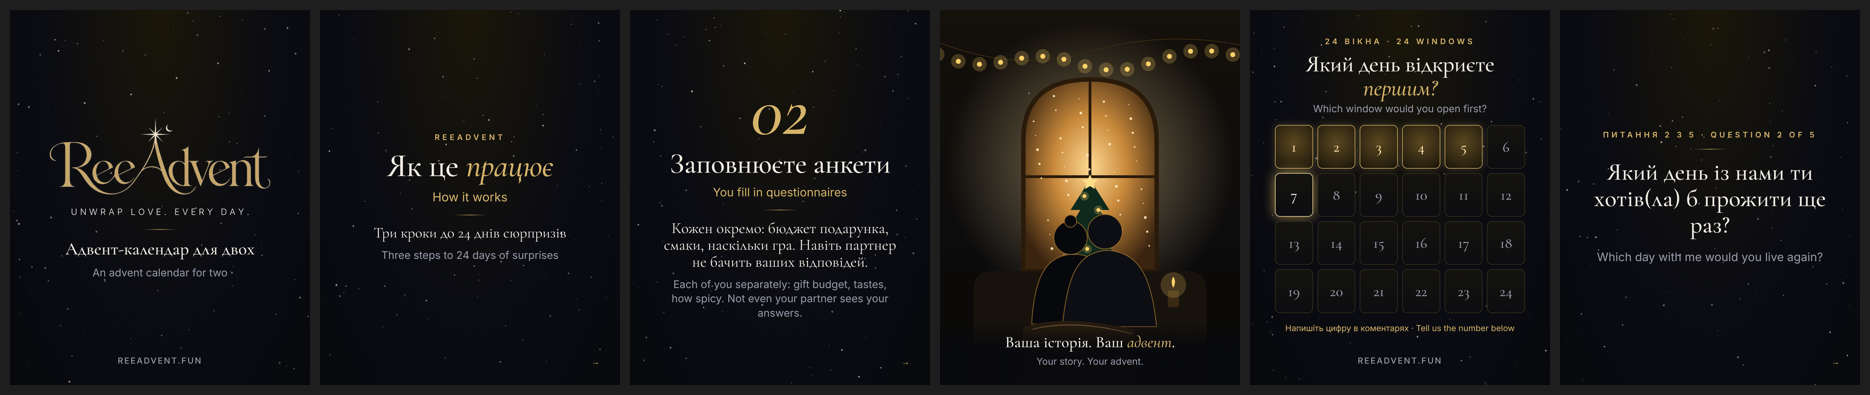
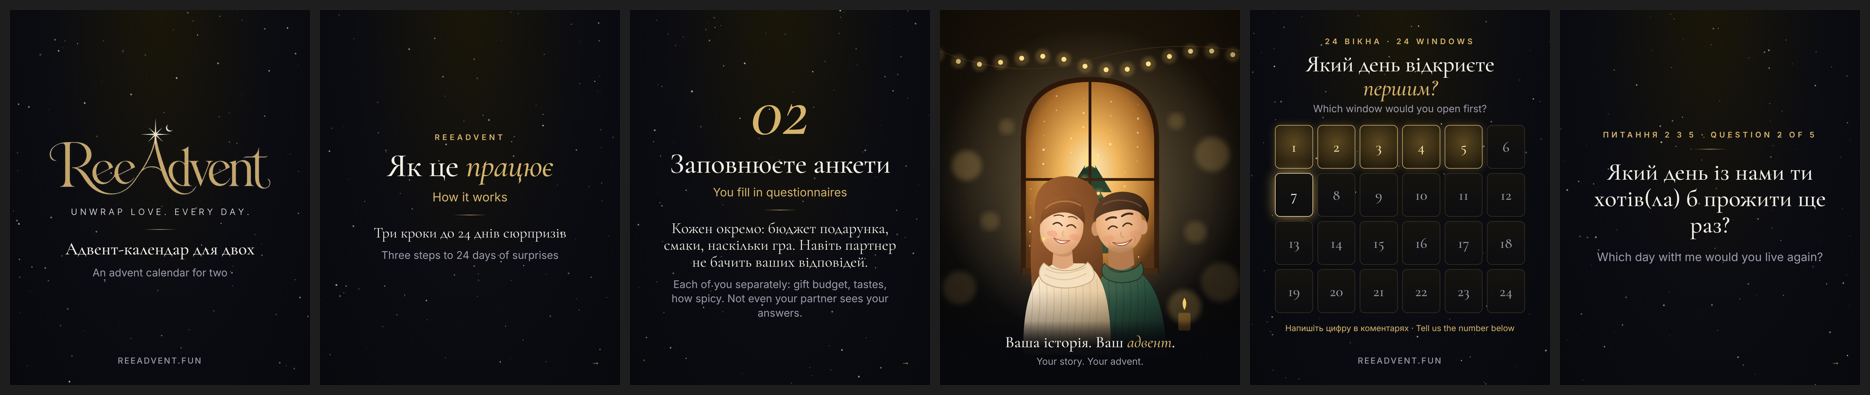
Instagram: об'ємна ілюстрація щасливої пари замість силуетів
Claude-Session: https://claude.ai/code/session_01Hc5kPjg9E2Dj73R5Ltgi6b

Changed region(s): [[0.4963, 0.2127, 0.6824, 0.881]]

diff --git a/marketing/instagram/captions.md b/marketing/instagram/captions.md
@@ -88,7 +88,7 @@ Link in bio.
 
 ## 4. Ілюстрація пари (`04-couple-illustration.png`)
 
-Це авторська ілюстрація (не фото реальних людей). Підпис нижче не обіцяє нічого зайвого.
+Це авторська ілюстрація щасливої пари (не фото реальних людей). Щоб замінити її реальним фото, покладіть вирізаний PNG пари в `assets/couple.png` (його робить `python cutout.py фото.jpg`) і перезапустіть `ONLY=04 node build.mjs`.
 
 **Підпис (UA):**
 Ваша історія. Ваш адвент ✦
